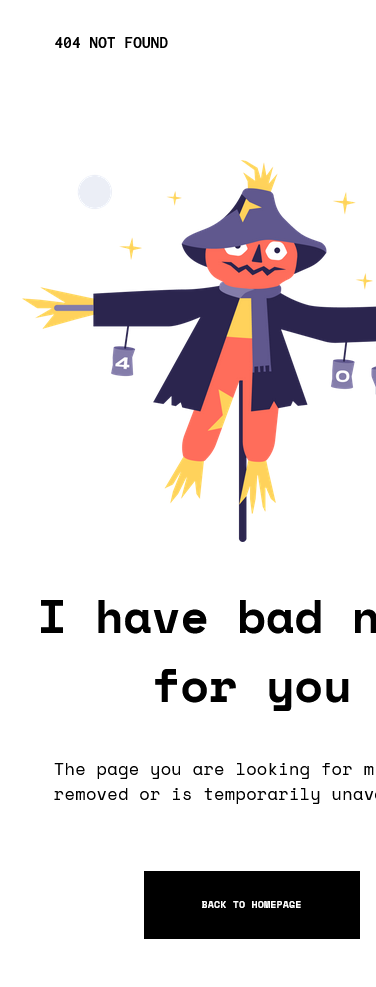
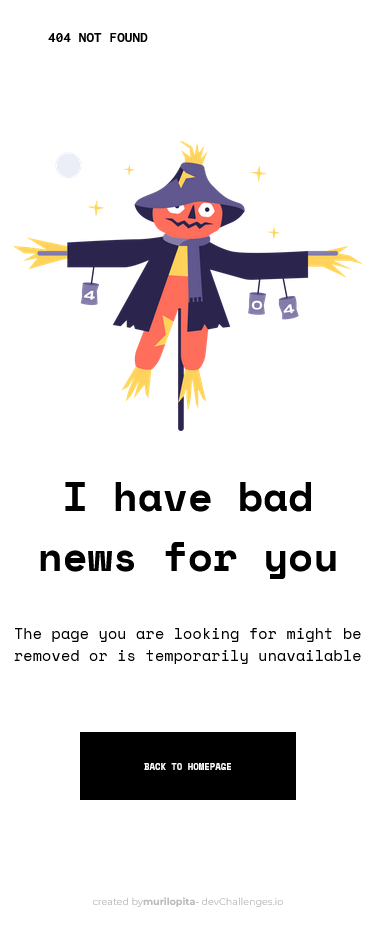
Updates

diff --git a/README.md b/README.md
@@ -8,12 +8,8 @@
 
 <div align="center">
   <h3>
-    <a href="https://splendorous-lokum-fab933.netlify.app/">
+    <a href="https://404-not-found-master-eosin.vercel.app/">
       Demo
-    </a>
-    <span> | </span>
-    <a href="https://splendorous-lokum-fab933.netlify.app/">
-      Solution
     </a>
     <span> | </span>
     <a href="https://devchallenges.io/challenges/wBunSb7FPrIepJZAg0sY">
@@ -35,7 +31,19 @@
 
 ## Overview
 
-![screenshot](https://user-images.githubusercontent.com/65280085/180602662-ed879e24-1c35-4235-8338-7748eaee4f8f.png)
+<h3 align='center'>Desktop Version</h3>
+
+<img src="imgs/screenshot-desktop.png">
+
+<br>
+<br>
+
+<h3 align='center'>Mobile Version</h3>
+
+<img src="imgs/screenshot-mobile.png">
+
+<br>
+<br>
 
 ## Built With
 
@@ -53,4 +61,4 @@ This application/site was created as a submission to a [DevChallenges](https://d
 
 ## Contact
 
-- GitHub [@murilopita]()
+- GitHub [@murilopita](https://github.com/murilopita)
